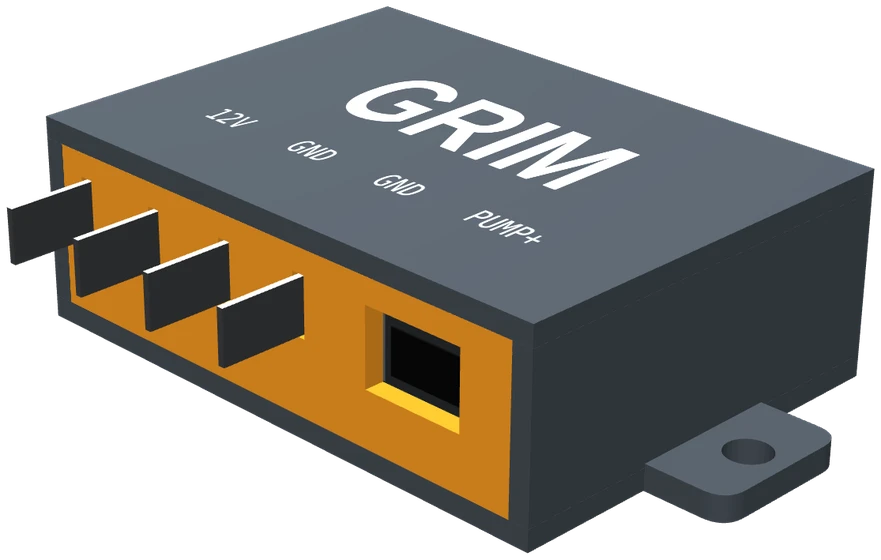
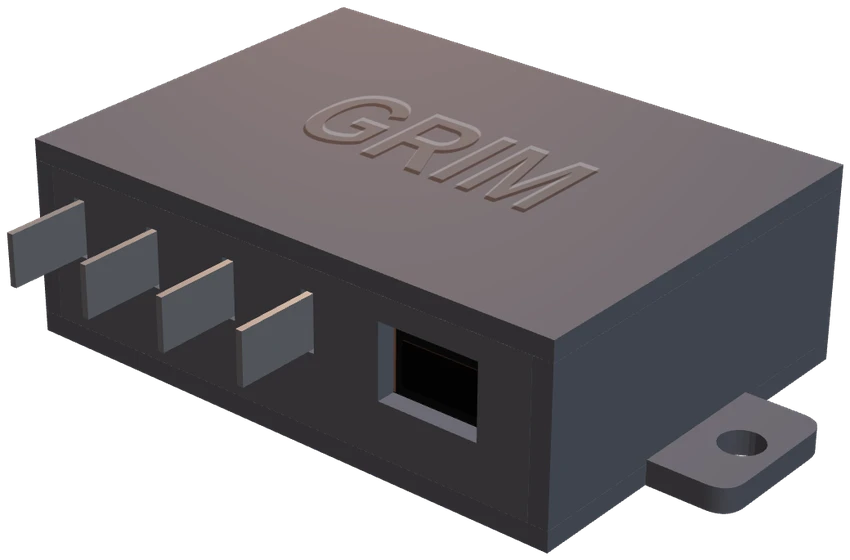
Grim: re-render preliminary enclosure in the family grey material and lighting; drop orange end panel and bright labels
Claude-Session: https://claude.ai/code/session_017d4xV8nYNd6GND1MhNhtk5

diff --git a/products.html b/products.html
@@ -114,7 +114,7 @@
     <div class="prod-group-head"><h2>Fuel</h2><p>Closed-loop fuel pump control. Pick by pump size.</p></div>
     <div class="prod-grid">
         <a class="card prod-card" href="products/grim.html" data-needs="fuel">
-          <span class="card-teaser card-teaser--render"><img src="images/renders/grim-enclosure.webp?v=1" alt="Preliminary 3D render of the Grim enclosure" width="348" height="220" loading="lazy"></span>
+          <span class="card-teaser card-teaser--render"><img src="images/renders/grim-enclosure.webp?v=2" alt="Preliminary 3D render of the Grim enclosure" width="334" height="220" loading="lazy"></span>
           <span class="badge">In Development</span>
           <h3>Grim</h3>
           <p>All-in-one closed-loop fuel pump controller for one pump up to 10A. Real pressure control, no extra modules.</p>

diff --git a/products/grim.html b/products/grim.html
@@ -54,7 +54,7 @@
 
   <div class="pdp-top">
     <div class="pdp-media">
-      <img src="../images/renders/grim-enclosure-lg.webp?v=1" alt="Preliminary 3D render of the Grim enclosure: a compact box with the GRIM label on top and four spade terminals and a connector at the wire end" width="881" height="560">
+      <img src="../images/renders/grim-enclosure-lg.webp?v=2" alt="Preliminary 3D render of the Grim enclosure: a compact box with the GRIM label on top and four spade terminals and a connector at the wire end" width="850" height="560">
       <span class="pdp-media-tag mono">PRELIMINARY 3D RENDER · SIZING MODEL</span>
     </div>
 

diff --git a/articles/return-vs-returnless-fuel.html b/articles/return-vs-returnless-fuel.html
@@ -297,7 +297,7 @@
     <aside class="art-side">
       <a class="art-prod" href="../products/grim.html">
         <span class="mono art-prod-eyebrow">RELATED PRODUCTS</span>
-        <img src="../images/renders/grim-enclosure.webp?v=1" alt="Preliminary 3D render of the Grim enclosure" loading="lazy">
+        <img src="../images/renders/grim-enclosure.webp?v=2" alt="Preliminary 3D render of the Grim enclosure" loading="lazy">
         <b>Grim</b>
         <span class="art-prod-desc">All-in-one closed-loop fuel pump control.</span>
         <span class="art-prod-go">View product &rarr;</span>

diff --git a/index.html b/index.html
@@ -92,7 +92,7 @@
     </div>
     <div class="home-shelf" id="shelf" tabindex="0" aria-label="Product lineup, scrolls sideways">
       <a class="home-shelf-item" href="products/grim.html">
-        <img src="images/renders/grim-enclosure.webp?v=1" alt="Preliminary render of the Grim enclosure" loading="lazy">
+        <img src="images/renders/grim-enclosure.webp?v=2" alt="Preliminary render of the Grim enclosure" loading="lazy">
         <b>Grim</b><span>All-in-one fuel pump control</span>
       </a>
       <a class="home-shelf-item" href="products/grim-max.html">
